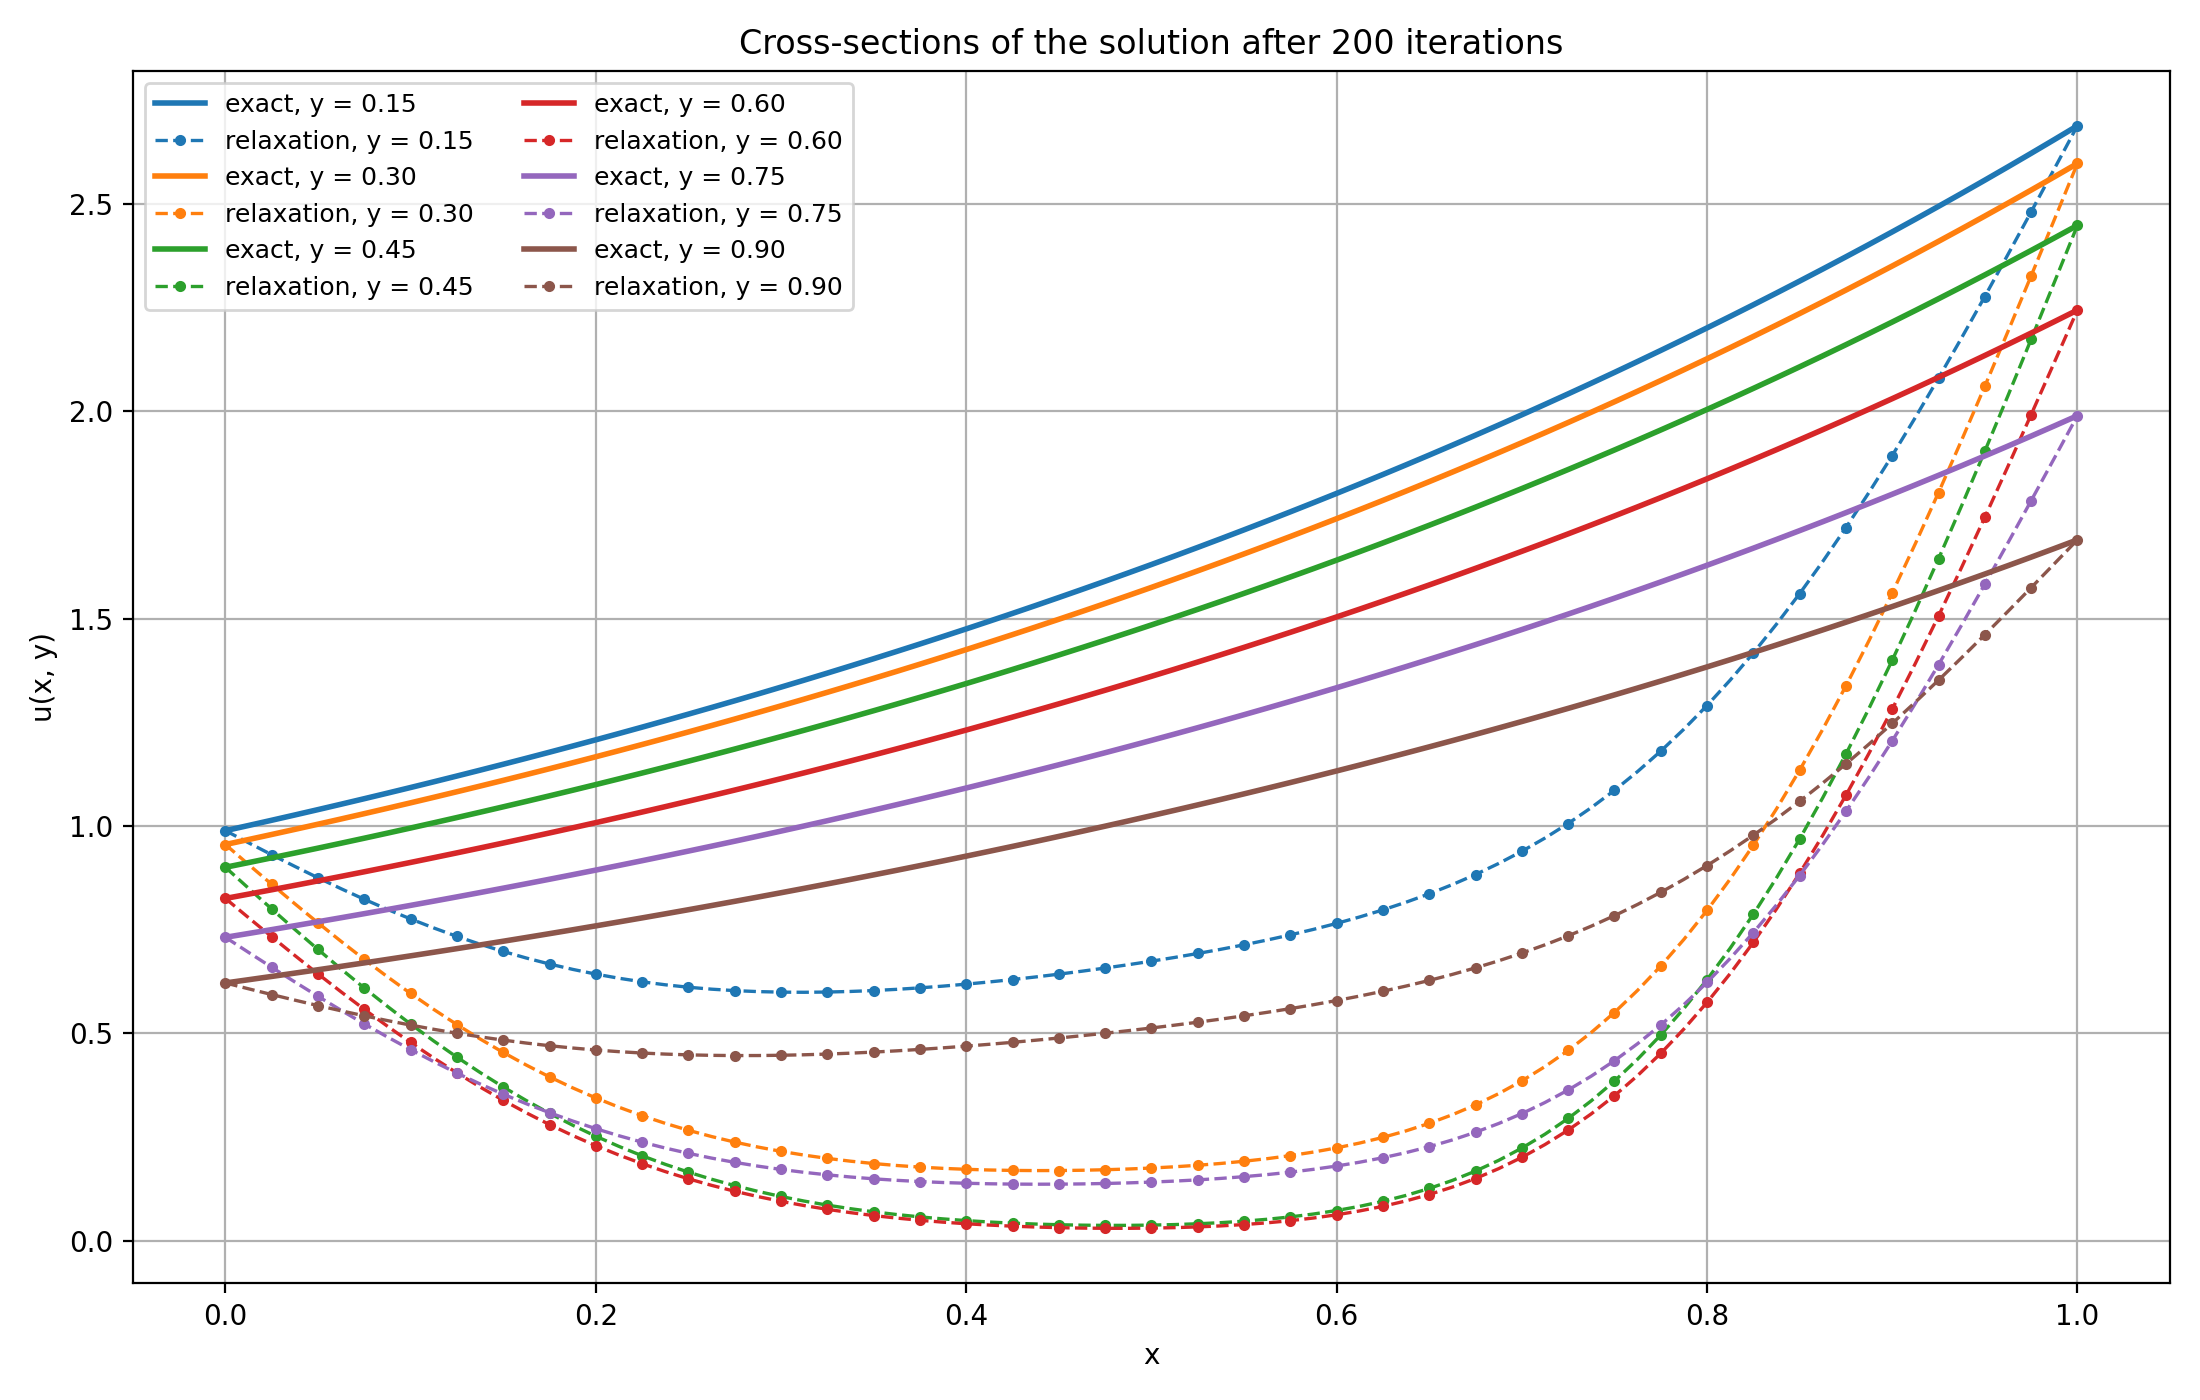
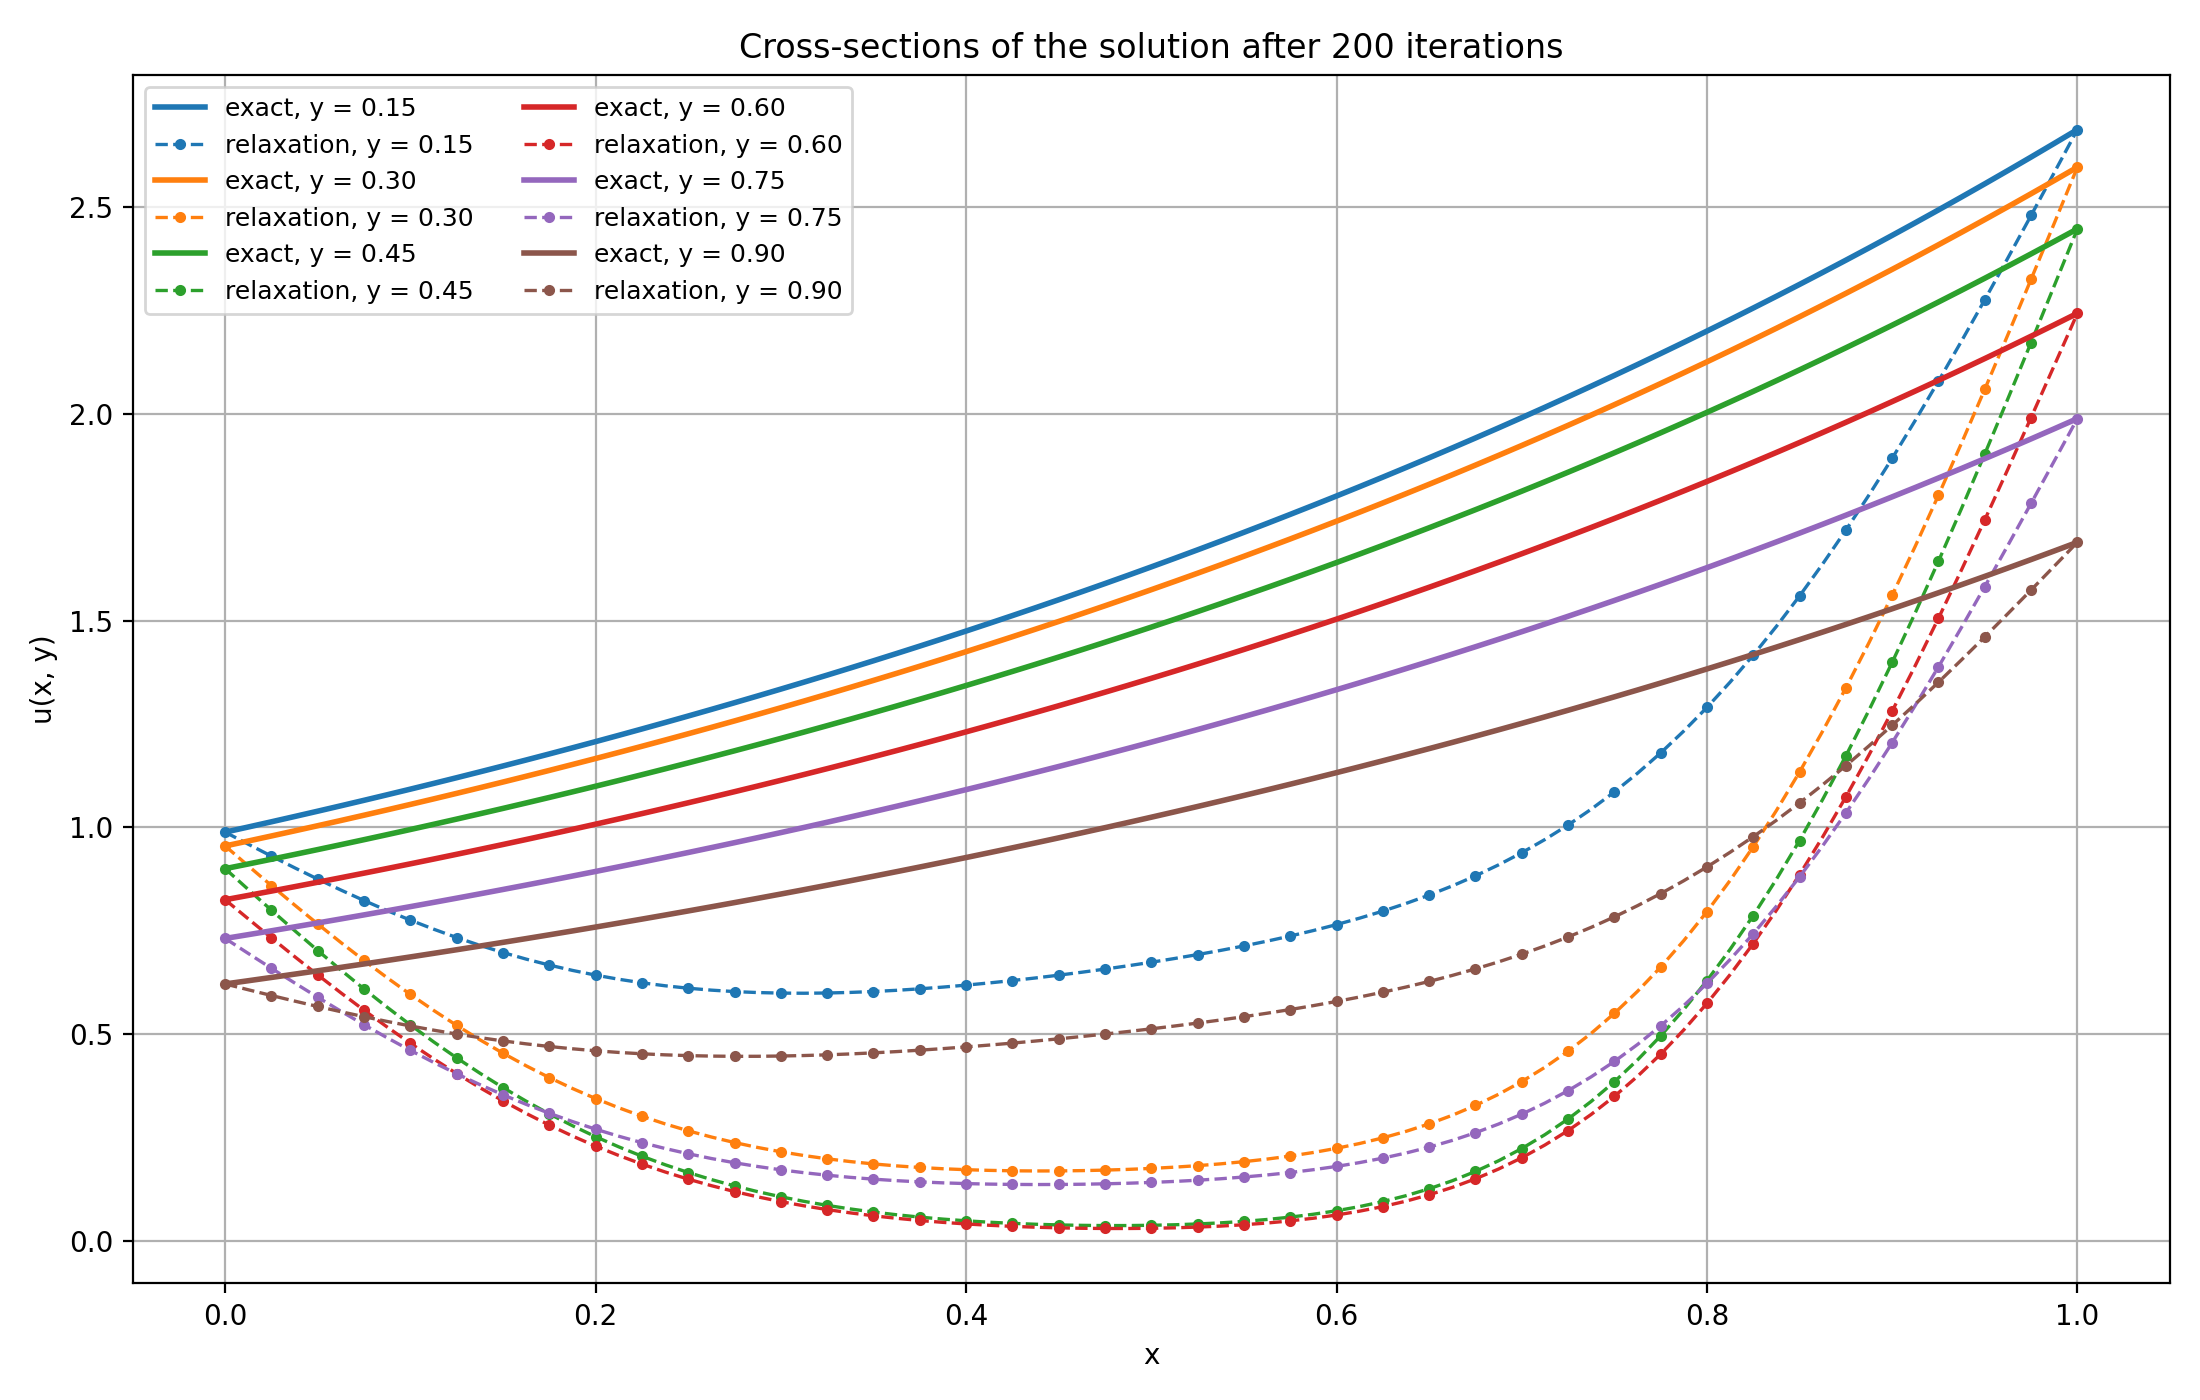
Working on pdf file

diff --git a/src/common/plotting.py b/src/common/plotting.py
@@ -258,3 +258,112 @@ def plot_3d_solution(
     plt.savefig(output_dir / labels["solution_3d_file"], dpi=200)
     plt.show()
     plt.close()
+
+
+def plot_3d_exact_solution(
+    result: LaplaceResultTypes,
+    output_dir: Path,
+    labels: dict[str, str],
+) -> None:
+    """
+    Plot the exact analytical solution as a 3D surface.
+    """
+
+    x = result["x"]
+    y = result["y"]
+    exact_values = result["exact_solution"]
+
+    x_grid, y_grid = np.meshgrid(x, y, indexing="ij")
+
+    fig = plt.figure(figsize=(10, 7))
+    ax = fig.add_subplot(1, 1, 1, projection="3d")
+
+    surface = ax.plot_surface(
+        x_grid,
+        y_grid,
+        exact_values,
+        cmap="viridis",
+        edgecolor="none",
+    )
+
+    ax.set_xlabel(labels["x_label"])
+    ax.set_ylabel(labels["y_axis_label"])
+    ax.set_zlabel(labels["z_label"])
+    ax.set_title(labels["exact_solution_3d_title"])
+
+    fig.colorbar(surface, ax=ax, shrink=0.75, pad=0.1)
+    plt.tight_layout()
+    plt.savefig(output_dir / labels["exact_solution_3d_file"], dpi=200)
+    plt.show()
+    plt.close()
+
+
+def plot_3d_error(
+    result: LaplaceResultTypes,
+    output_dir: Path,
+    labels: dict[str, str],
+) -> None:
+    """
+    Plot the absolute error |u_num - u_exact| as a 3D surface.
+    """
+
+    x = result["x"]
+    y = result["y"]
+    error_values = result["error"]
+
+    x_grid, y_grid = np.meshgrid(x, y, indexing="ij")
+
+    fig = plt.figure(figsize=(10, 7))
+    ax = fig.add_subplot(1, 1, 1, projection="3d")
+
+    surface = ax.plot_surface(
+        x_grid,
+        y_grid,
+        error_values,
+        cmap="inferno",
+        edgecolor="none",
+    )
+
+    ax.set_xlabel(labels["x_label"])
+    ax.set_ylabel(labels["y_axis_label"])
+    ax.set_zlabel(labels["error_z_label"])
+    ax.set_title(labels["error_3d_title"])
+
+    fig.colorbar(surface, ax=ax, shrink=0.75, pad=0.1)
+    plt.tight_layout()
+    plt.savefig(output_dir / labels["error_3d_file"], dpi=200)
+    plt.show()
+    plt.close()
+
+
+def plot_error_map(
+    result: LaplaceResultTypes,
+    output_dir: Path,
+    labels: dict[str, str],
+) -> None:
+    """
+    Plot the signed difference u_num - u_exact as a matrix heatmap.
+    """
+
+    x = result["x"]
+    y = result["y"]
+    signed_error = result["numerical_solution"] - result["exact_solution"]
+
+    plt.figure(figsize=(8, 7))
+
+    image = plt.imshow(
+        signed_error.T,
+        origin="lower",
+        extent=(float(x[0]), float(x[-1]), float(y[0]), float(y[-1])),
+        cmap="coolwarm",
+        aspect="equal",
+    )
+
+    plt.xlabel(labels["x_label"])
+    plt.ylabel(labels["y_axis_label"])
+    plt.title(labels["error_map_title"])
+    plt.colorbar(image, label=labels["error_map_colorbar_label"])
+    plt.tight_layout()
+    plt.savefig(output_dir / labels["error_map_file"], dpi=200)
+    plt.show()
+    plt.close()

diff --git a/src/pl/main.py b/src/pl/main.py
@@ -10,6 +10,9 @@ from src.common.config import (
 from src.common.models import GridStudyRecordTypes, LaplaceResultTypes
 from src.common.paths import get_images_dir
 from src.common.plotting import (
+    plot_3d_error,
+    plot_error_map,
+    plot_3d_exact_solution,
     plot_3d_solution,
     plot_cross_sections,
     plot_cross_sections_for_iterations,
@@ -24,13 +27,14 @@ def print_grid_study_results(results: list[GridStudyRecordTypes]) -> None:
     Print the grid study results in Polish.
     """
     print("\nBADANIE SIATKI I DOKŁADNOŚCI")
-    print(f"{'Rozmiar':>6} {'Krok siatki':>12} {'Iteracje':>12} {'Błąd max':>15}")
+    print(f"{'Rozmiar':>8} | {'Krok siatki':>12} | {'Iteracje':>10} | {'Błąd max':>15}")
+    print("-" * 57)
 
     for record in results:
         print(
-            f"{record['grid_size']:>6}"
-            f"{record['grid_step']:>12.5f}"
-            f"{record['iterations']:>12}"
+            f"{record['grid_size']:>8} | "
+            f"{record['grid_step']:>12.5f} | "
+            f"{record['iterations']:>10} | "
             f"{record['max_error']:>15.8e}"
         )
 
@@ -143,6 +147,24 @@ def main() -> None:
     )
 
     plot_3d_solution(
+        result=result,
+        output_dir=output_dir,
+        labels=LABELS,
+    )
+
+    plot_3d_exact_solution(
+        result=result,
+        output_dir=output_dir,
+        labels=LABELS,
+    )
+
+    plot_3d_error(
+        result=result,
+        output_dir=output_dir,
+        labels=LABELS,
+    )
+
+    plot_error_map(
         result=result,
         output_dir=output_dir,
         labels=LABELS,

diff --git a/src/en/main.py b/src/en/main.py
@@ -10,6 +10,9 @@ from src.common.config import (
 from src.common.models import GridStudyRecordTypes, LaplaceResultTypes
 from src.common.paths import get_images_dir
 from src.common.plotting import (
+    plot_3d_error,
+    plot_error_map,
+    plot_3d_exact_solution,
     plot_3d_solution,
     plot_cross_sections,
     plot_cross_sections_for_iterations,
@@ -24,13 +27,14 @@ def print_grid_study_results(results: list[GridStudyRecordTypes]) -> None:
     Print the grid study results in English.
     """
     print("\nGRID STUDY AND ACCURACY")
-    print(f"{'Grid':>6} {'Grid step':>12} {'Iterations':>12} {'Max error':>15}")
+    print(f"{'Grid':>8} | {'Grid step':>12} | {'Iterations':>10} | {'Max error':>15}")
+    print("-" * 57)
 
     for record in results:
         print(
-            f"{record['grid_size']:>6}"
-            f"{record['grid_step']:>12.5f}"
-            f"{record['iterations']:>12}"
+            f"{record['grid_size']:>8} | "
+            f"{record['grid_step']:>12.5f} | "
+            f"{record['iterations']:>10} | "
             f"{record['max_error']:>15.8e}"
         )
 
@@ -145,6 +149,24 @@ def main() -> None:
     )
 
     plot_3d_solution(
+        result=result,
+        output_dir=output_dir,
+        labels=LABELS,
+    )
+
+    plot_3d_exact_solution(
+        result=result,
+        output_dir=output_dir,
+        labels=LABELS,
+    )
+
+    plot_3d_error(
+        result=result,
+        output_dir=output_dir,
+        labels=LABELS,
+    )
+
+    plot_error_map(
         result=result,
         output_dir=output_dir,
         labels=LABELS,

diff --git a/src/pl/labels.py b/src/pl/labels.py
@@ -9,8 +9,16 @@ LABELS = {
     "iteration_cross_sections_title": "Przekroje rozwiązania po {iteration} iteracjach",
     "final_cross_sections_title": "Przekroje rozwiązania po zbieżności",
     "solution_3d_title": "Rozwiązanie numeryczne równania Laplace'a - wykres 3D",
+    "exact_solution_3d_title": "Rozwiązanie analityczne równania Laplace'a - wykres 3D",
     "cross_sections_file": "przekroje.png",
     "iteration_cross_sections_file": "przekroje_iteracja_{iteration}.png",
     "final_cross_sections_file": "przekroje_iteracja_koniec.png",
     "solution_3d_file": "rozwiazanie_3d.png",
+    "exact_solution_3d_file": "rozwiazanie_analityczne_3d.png",
+    "error_3d_title": "Błąd bezwzględny |u_num - u_dokł| - wykres 3D",
+    "error_3d_file": "blad_3d.png",
+    "error_z_label": "|u_num - u_dokł|",
+    "error_map_title": "Mapa błędu u_num - u_dokł",
+    "error_map_file": "mapa_bledu.png",
+    "error_map_colorbar_label": "u_num - u_dokł",
 }

diff --git a/src/en/labels.py b/src/en/labels.py
@@ -9,8 +9,16 @@ LABELS = {
     "iteration_cross_sections_title": "Cross-sections of the solution after {iteration} iterations",
     "final_cross_sections_title": "Cross-sections of the converged solution",
     "solution_3d_title": "Numerical solution of Laplace's equation - 3D plot",
+    "exact_solution_3d_title": "Analytical solution of Laplace's equation - 3D plot",
     "cross_sections_file": "cross_sections.png",
     "iteration_cross_sections_file": "cross_sections_iteration_{iteration}.png",
     "final_cross_sections_file": "final_cross_sections.png",
     "solution_3d_file": "solution_3d.png",
+    "exact_solution_3d_file": "analytical_solution_3d.png",
+    "error_3d_title": "Absolute error |u_num - u_exact| - 3D plot",
+    "error_3d_file": "error_3d.png",
+    "error_z_label": "|u_num - u_exact|",
+    "error_map_title": "Error map: u_num - u_exact",
+    "error_map_file": "error_map.png",
+    "error_map_colorbar_label": "u_num - u_exact",
 }

diff --git a/src/common/laplace.py b/src/common/laplace.py
@@ -17,7 +17,9 @@ def exact_solution(
     This function represents the real part of the complex-valued function
     f(z) introduced by the user.
     """
-    return np.exp(x) * np.cos(y)
+    x0 = 1.3
+    y0 = 0.5
+    return np.log((x - x0) ** 2 + (y - y0) ** 2)
 
 
 def solve_laplace(
